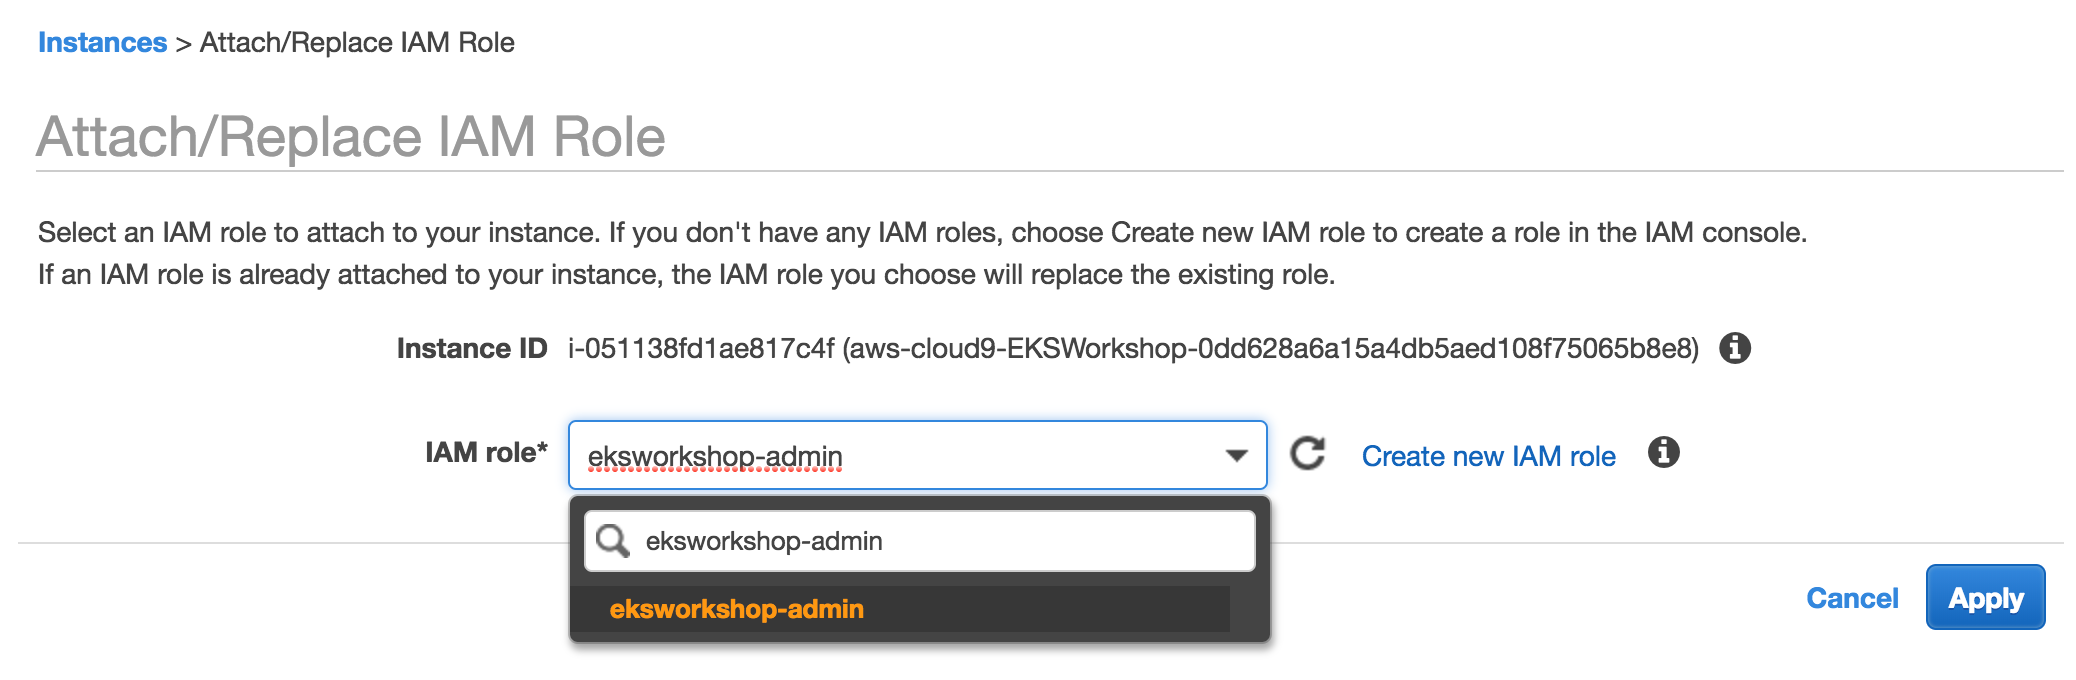
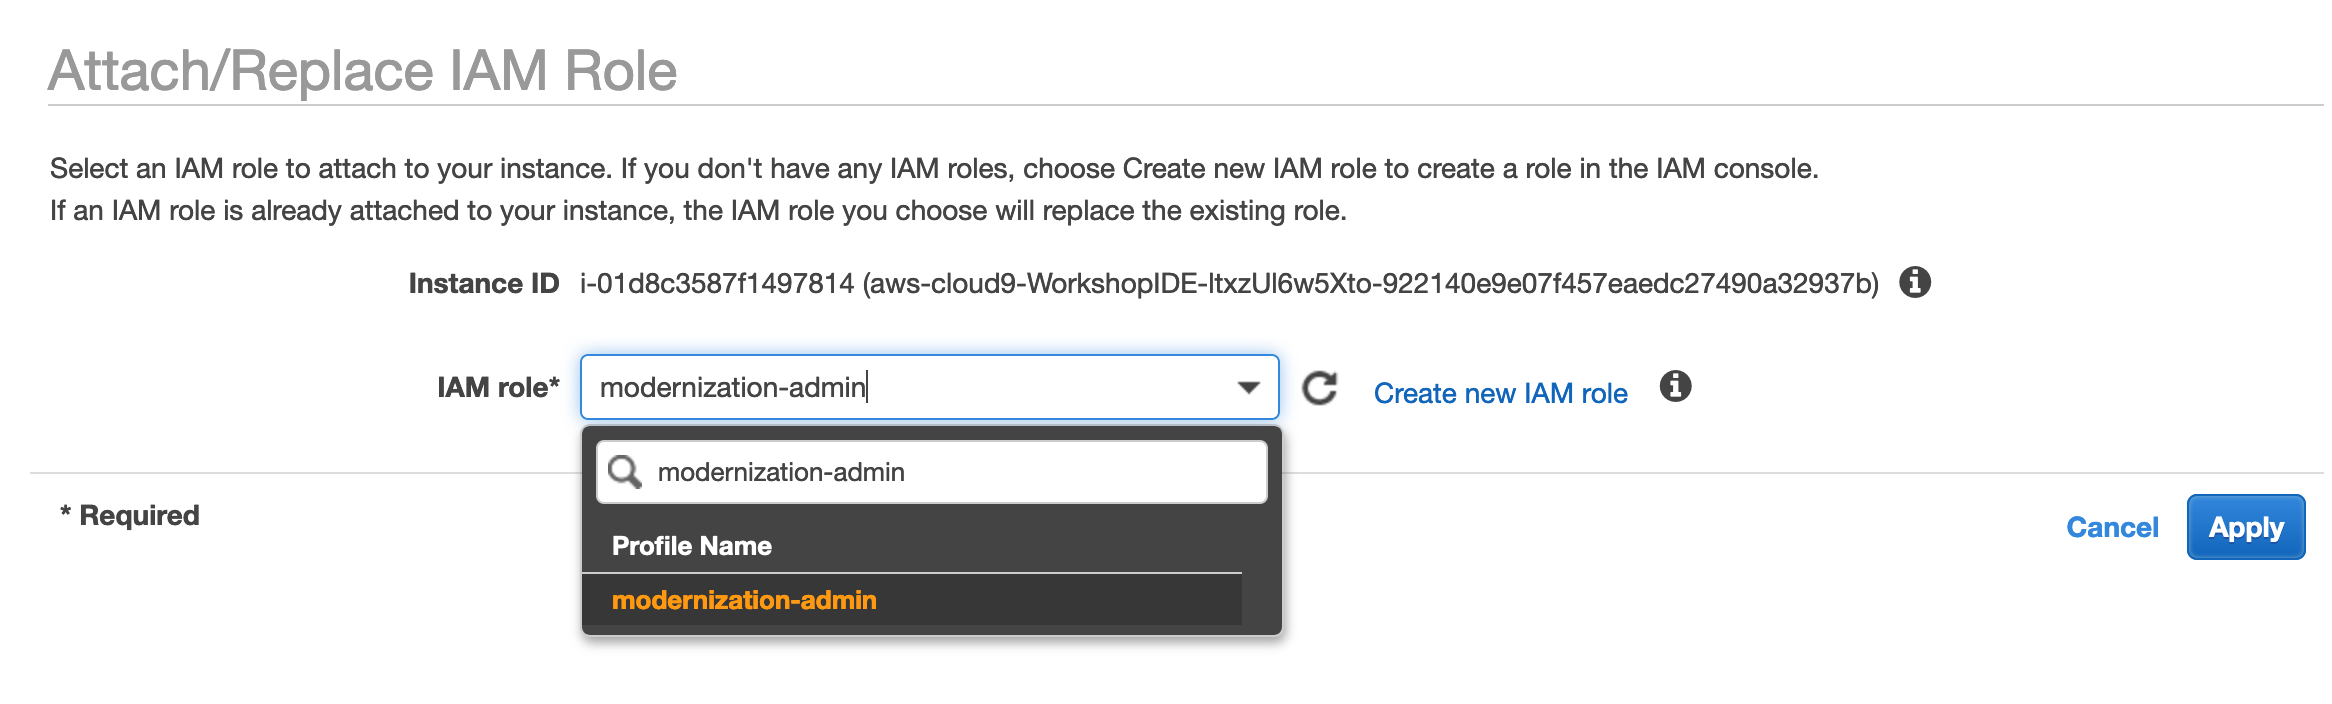
Added Cloud9 role for eks

diff --git a/content/21_Cloud9_EKS_Prereqs copy/ec2instance.md b/content/21_Cloud9_EKS_Prereqs copy/ec2instance.md
@@ -7,5 +7,5 @@ weight: 10
 1. Follow [this deep link to find your Cloud9 EC2 instance](https://console.aws.amazon.com/ec2/v2/home?#Instances:tag:Name=aws-cloud9-.*workshop.*;sort=desc:launchTime)
 1. Select the instance, then choose **Actions / Instance Settings / Attach/Replace IAM Role**
 ![c9instancerole](/images/cloud9-eks-prereqs/c9instancerole.png)
-1. Choose **eksworkshop-admin** from the **IAM Role** drop down, and select **Apply**
+1. Choose **modernization-admin** from the **IAM Role** drop down, and select **Apply**
 ![c9attachrole](/images/cloud9-eks-prereqs/c9attachrole.png)
